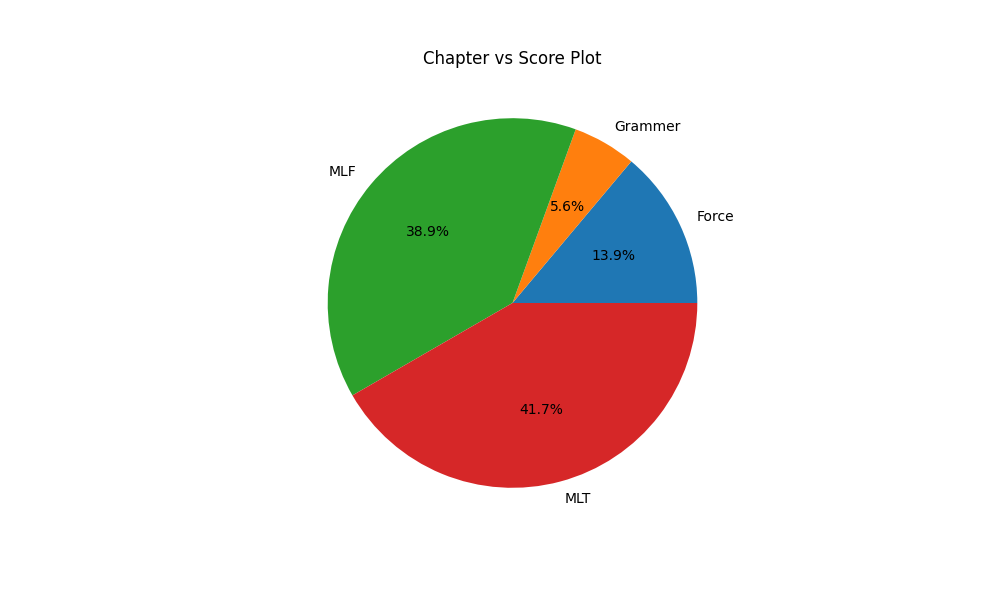
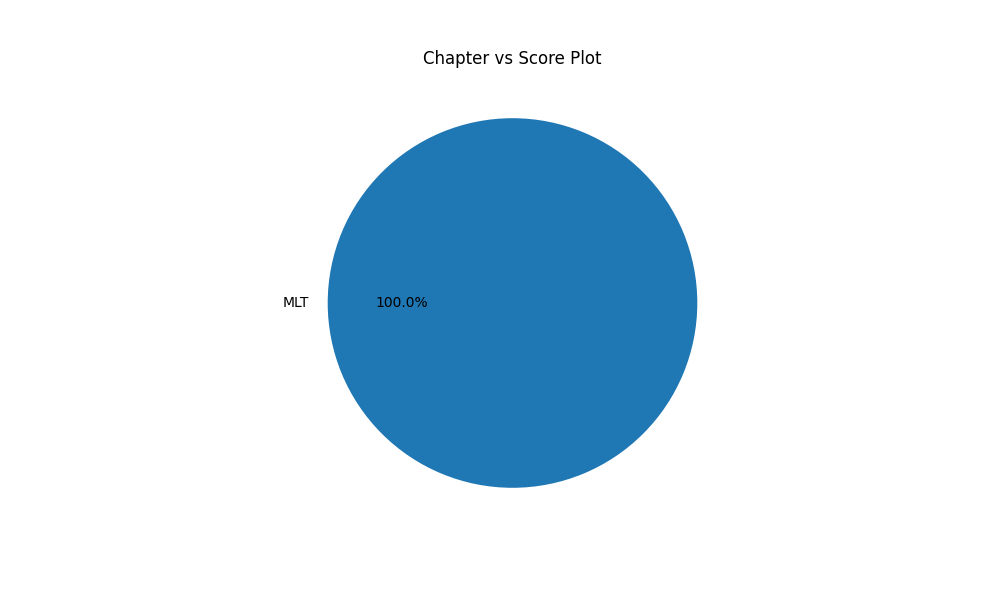
fix error of not found chapter to hadle error

Changed region(s): [[0.279, 0.18, 0.713, 0.84], [0.589, 0.42, 0.651, 0.45], [0.713, 0.36, 0.744, 0.39]]

diff --git a/controllers/data_process.py b/controllers/data_process.py
@@ -5,33 +5,62 @@ import base64
 import matplotlib
 matplotlib.use('Agg')  # Use a non-GUI backend
 import matplotlib.pyplot as plt
+# def stats_master_fun():
+#     # Connect to the SQLite database
+#     conn = sqlite3.connect("instance\\quiz_master.db") 
+#     cursor = conn.cursor()
+
+#     # Read data into a Pandas DataFrame
+#     # Query to get the number of subjects, chapters, quizzes, and users
+#     num_subjects_query = "SELECT COUNT(*) as num_subjects FROM subjects"
+#     num_chapters_query = "SELECT COUNT(*) as num_chapters FROM chapters"
+#     num_quizzes_query = "SELECT COUNT(*) as num_quizzes FROM quizzes"
+#     num_users_query = "SELECT COUNT(*) as num_users FROM users where role='user'"
+#     num_questions_query = "SELECT COUNT(*) as num_questions FROM questions"
+
+#     # Execute the queries and fetch the results
+#     try:
+#         num_subjects = cursor.execute(num_subjects_query).fetchone()[0]
+#     except sqlite3.OperationalError as e:
+#         print(f"Error: {e}")
+#         num_subjects = 0
+#     num_chapters = cursor.execute(num_chapters_query).fetchone()[0]
+#     num_quizzes = cursor.execute(num_quizzes_query).fetchone()[0]
+#     num_users = cursor.execute(num_users_query).fetchone()[0]
+#     num_questions = cursor.execute(num_questions_query).fetchone()[0]
+
+#     stats_master = {
+#         "num_subjects": num_subjects,
+#         "num_chapters": num_chapters,
+#         "num_quizzes": num_quizzes,
+#         "num_users": num_users,
+#         "num_questions": num_questions
+#     }
+
 def stats_master_fun():
     # Connect to the SQLite database
     conn = sqlite3.connect("instance\\quiz_master.db") 
     cursor = conn.cursor()
 
-    # Read data into a Pandas DataFrame
-    # Query to get the number of subjects, chapters, quizzes, and users
-    num_subjects_query = "SELECT COUNT(*) as num_subjects FROM subjects"
-    num_chapters_query = "SELECT COUNT(*) as num_chapters FROM chapters"
-    num_quizzes_query = "SELECT COUNT(*) as num_quizzes FROM quizzes"
-    num_users_query = "SELECT COUNT(*) as num_users FROM users where role='user'"
-    num_questions_query = "SELECT COUNT(*) as num_questions FROM questions"
-
-    # Execute the queries and fetch the results
-    num_subjects = cursor.execute(num_subjects_query).fetchone()[0]
-    num_chapters = cursor.execute(num_chapters_query).fetchone()[0]
-    num_quizzes = cursor.execute(num_quizzes_query).fetchone()[0]
-    num_users = cursor.execute(num_users_query).fetchone()[0]
-    num_questions = cursor.execute(num_questions_query).fetchone()[0]
-
-    stats_master = {
-        "num_subjects": num_subjects,
-        "num_chapters": num_chapters,
-        "num_quizzes": num_quizzes,
-        "num_users": num_users,
-        "num_questions": num_questions
+    # Queries
+    queries = {
+        "num_subjects": "SELECT COUNT(*) as num_subjects FROM subjects",
+        "num_chapters": "SELECT COUNT(*) as num_chapters FROM chapters",
+        "num_quizzes": "SELECT COUNT(*) as num_quizzes FROM quizzes",
+        "num_users": "SELECT COUNT(*) as num_users FROM users where role='user'",
+        "num_questions": "SELECT COUNT(*) as num_questions FROM questions"
     }
+
+    stats_master = {}
+    for key, query in queries.items():
+        try:
+            stats_master[key] = cursor.execute(query).fetchone()[0]
+        except sqlite3.OperationalError as e:
+            print(f"Error executing query for {key}: {e}")
+            stats_master[key] = 0
+
+    # conn.close()
+    # return stats_master
 
     query = "SELECT full_name as user_name, quizzes.title as quiz_title, chapters.name as chapter_name, subjects.name as subject_name, total_scored from users, quizzes, chapters, subjects, scores where users.id=scores.user_id and quizzes.id=scores.quiz_id and quizzes.chapter_id = chapters.id and chapters.subject_id=subjects.id"
     df = pd.read_sql_query(query, conn)
